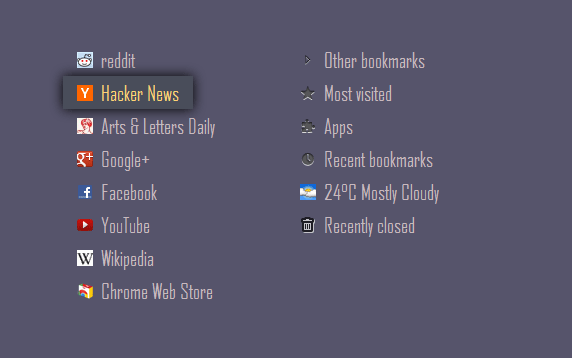
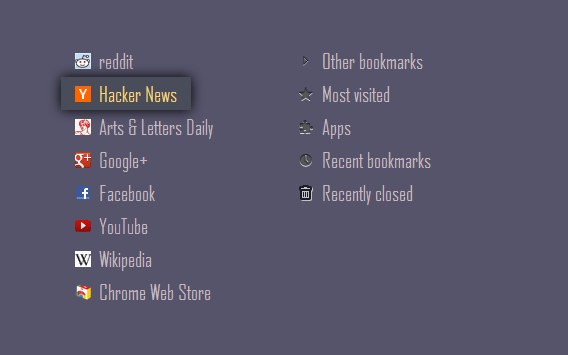
Add aspect-ratio to images, update screenshot, use static position for layout

diff --git a/style.css b/style.css
@@ -73,9 +73,8 @@ nav, main, section, article {
 		width: 58%;
 	}
 	#main {
-		position: relative;
 		width: 70%;
-		left: 20%;
+		margin-left: 20%;
 	}
 	#nav {
 		height: 100%;
@@ -85,6 +84,7 @@ nav, main, section, article {
 		width: 60%;
 		height: auto;
 		margin: 0 auto 20%;
+		aspect-ratio: 6 / 5;
 	}
 	.selected {
 		background-color: #3a3a3a;
@@ -109,7 +109,7 @@ nav, main, section, article {
 	}
 	#main {
 		width: 58%;
-		left: 32%;
+		margin-left: 32%;
 	}
 	#nav a {
 		padding: 0 30%;
@@ -154,6 +154,8 @@ img {
 	border: none;
 	vertical-align: bottom;
 	max-width: 100%;
+	height: auto;
+	aspect-ratio: attr(width) / attr(height);
 }
 time {
 	display: block;

diff --git a/index.html b/index.html
@@ -46,7 +46,7 @@
 			<article>
 				<h3 id="humble-new-tab-page">Humble New Tab Page</h3>
 				<p>Customizable, lightweight new tab page.</p>
-				<p><a href="https://github.com/ibillingsley/HumbleNewTabPage#screenshots"><img src="images/hntp1.png" alt="screenshot"></a></p>
+				<p><a href="https://github.com/ibillingsley/HumbleNewTabPage#screenshots"><img src="images/hntp1.png" alt="screenshot" width="568" height="355"></a></p>
 				<h4>Features</h4>
 				<ul>
 					<li>Bookmarks, apps, most visited, recently closed, weather and more</li>
